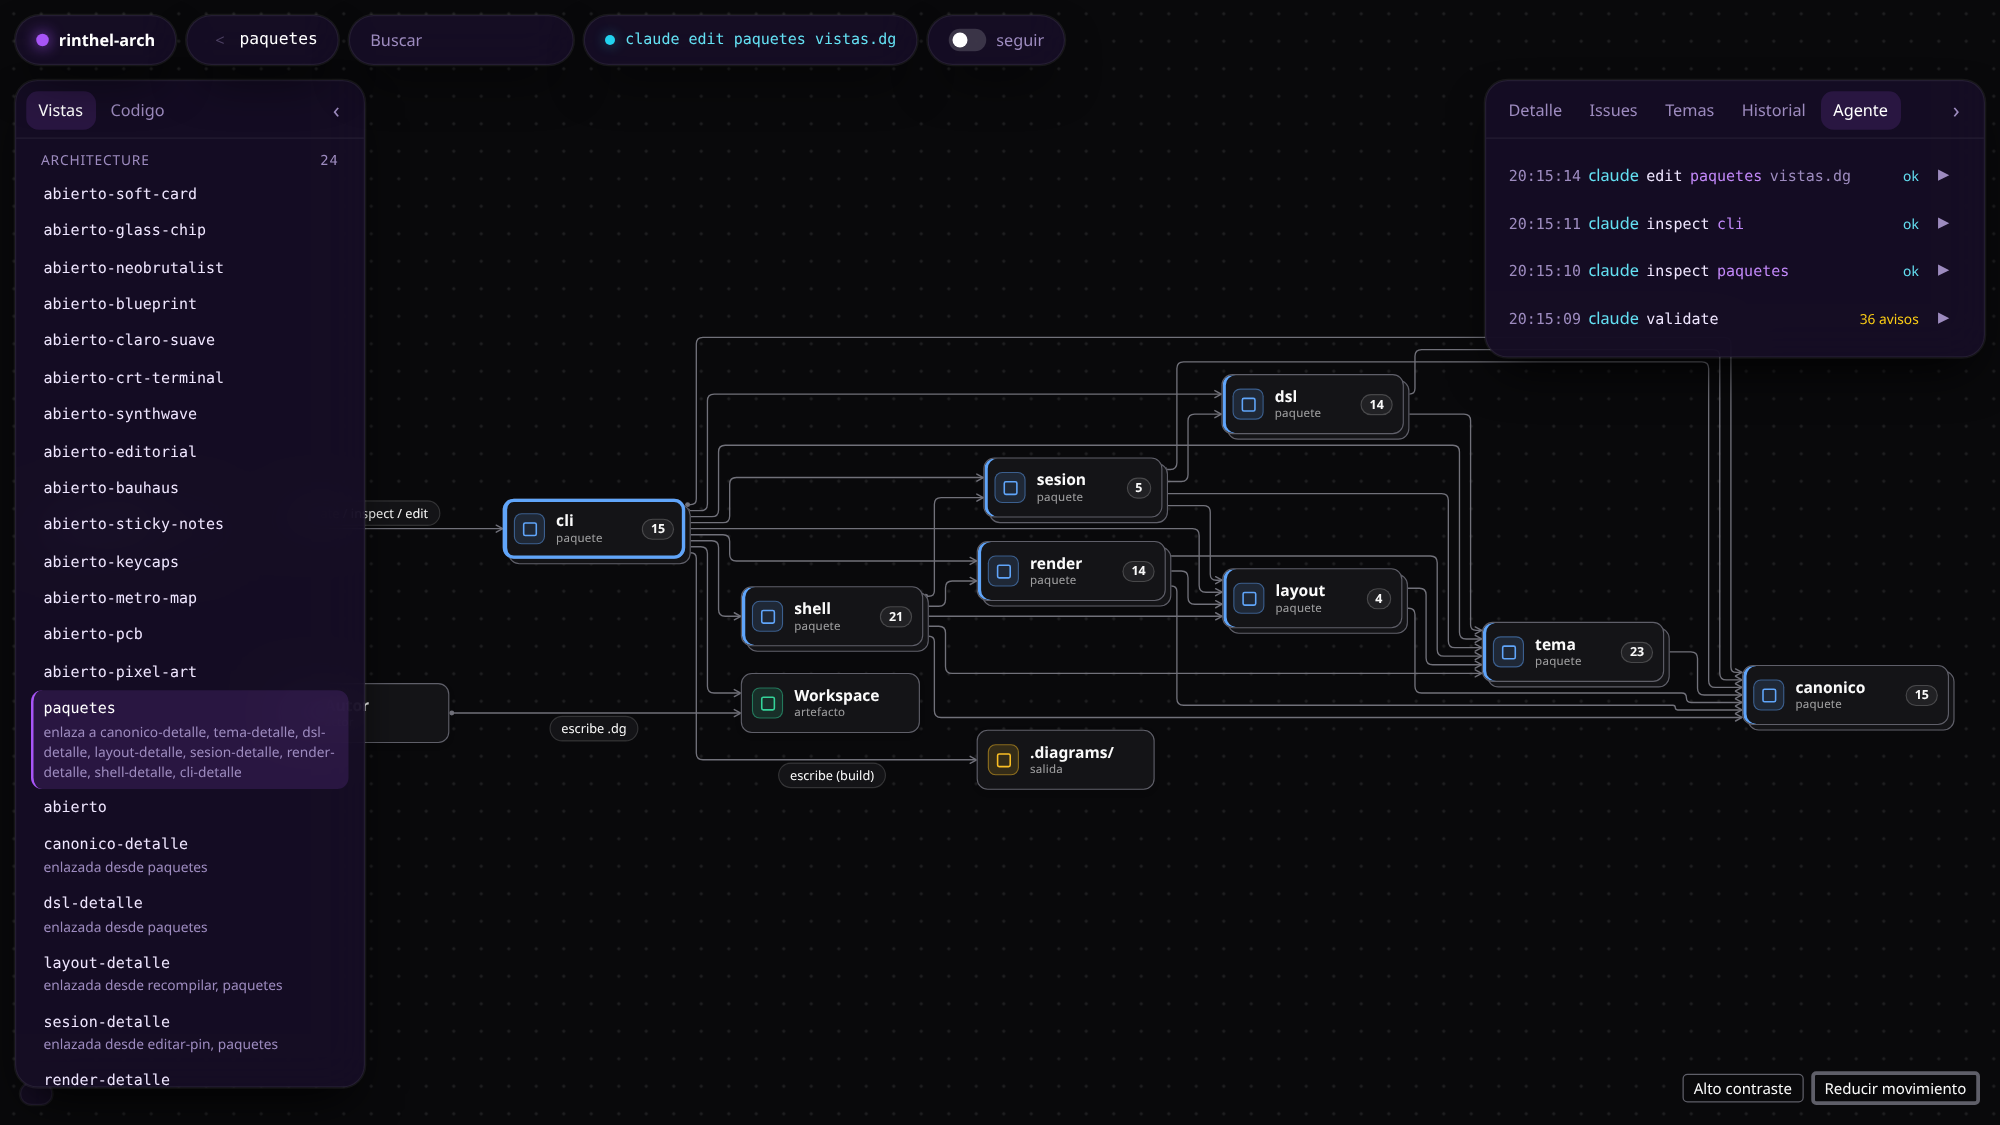
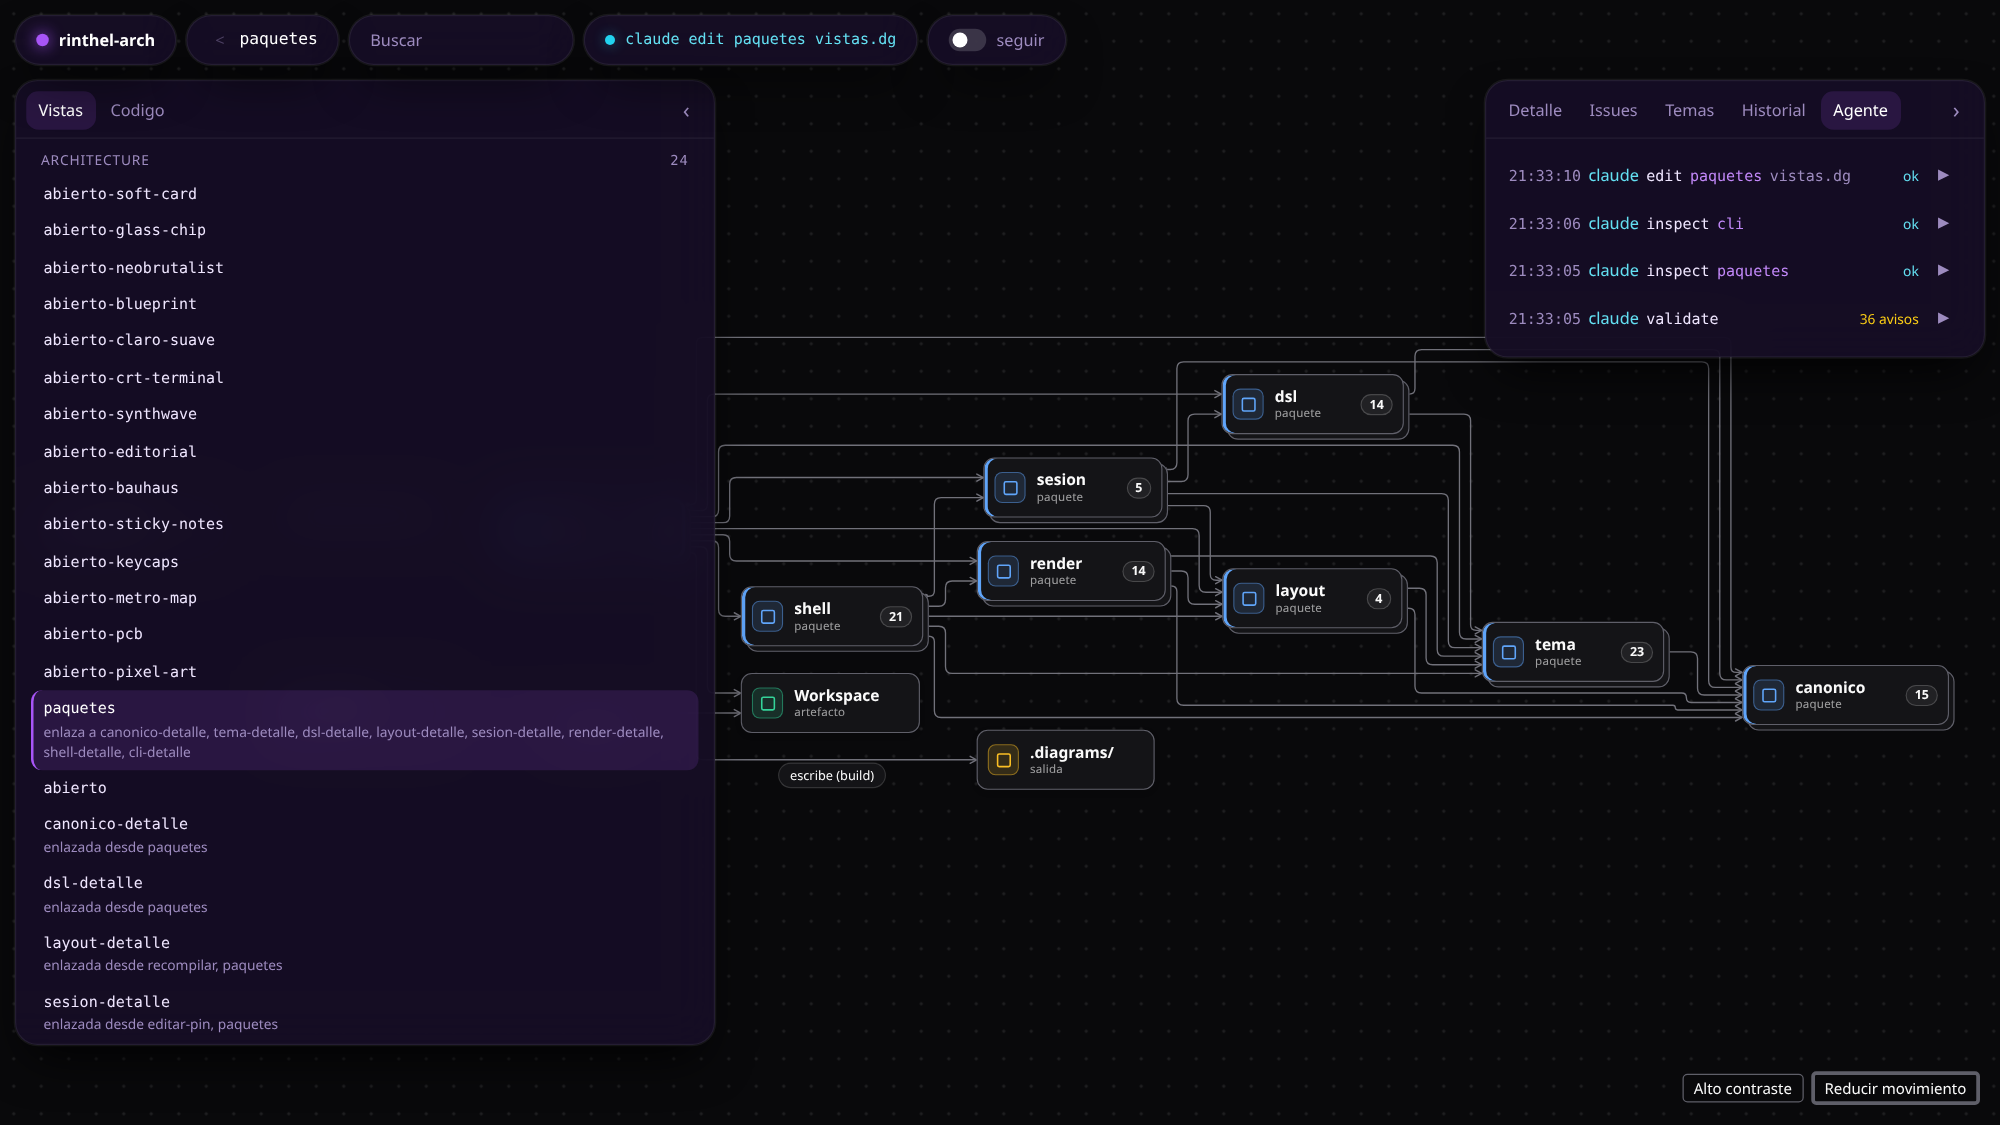
revision #184: estetica del estudio y --hash documentado (D1-D5)
- estilo.css: el bloque de las Migas no cerraba y dejaba anidadas (sin efecto)
  las reglas de Codigo, la Diferencia y solo-lector; ahora van en @layer chrome.
  Las de CodeMirror van sin capa para ganarle a su tema base (D1: select y
  lista con los tokens; numeros de linea sin fondo blanco).
- D2: abrir Codigo ensancha la isla izquierda a ANCHO_DEL_EDITOR (pestana con
  anchoMinimo; Isla.ensanchar) y el editor no crece mas que la isla.
- D3: la pildora de la leyenda no se dibuja vacia.
- D4: las islas dejan libre la franja de abajo (margenInferior 64): Alto
  contraste y Reducir movimiento quedan a la vista.
- D5: docs/guia/cli.md explica de donde sale el --hash de edit.
- Capturas regeneradas con pnpm docs:capturas.

Refs #184

Changed region(s): [[0.0, 0.0933, 0.372, 0.9644]]

diff --git a/packages/estudio/navegador/estilo.css b/packages/estudio/navegador/estilo.css
@@ -105,7 +105,8 @@
   .ui-isla {
     position: absolute;
     top: 64px;
-    max-height: calc(100% - 64px - 30px);
+    /* Deja libre la franja de abajo: leyenda, Pasos y Alto contraste / Reducir movimiento no quedan bajo las islas. */
+    max-height: calc(100% - 64px - 64px);
     border-radius: 18px;
     display: flex;
     flex-direction: column;
@@ -705,6 +706,10 @@
     border-radius: 14px;
     padding: 8px 12px;
     z-index: 1;
+    /* La Leyenda del shell en modo auto puede no dibujar nada: sin ella no queda una pildora vacia. */
+    &:empty {
+      display: none;
+    }
   }
 
   .ui-toasts {
@@ -771,13 +776,24 @@
     font-family: var(--ui-mono);
     color: var(--ui-texto-fuerte);
   }
+}
 
+/* Paneles de las islas que llegaron despues (Codigo, Diferencia): en la misma capa que el resto del chrome. */
+@layer chrome {
   /* Pestana Codigo: editor CodeMirror 6 del DSL (#190). */
   .ui-codigo {
     display: flex;
     flex-direction: column;
     gap: 8px;
     min-height: 0;
+    min-width: 0;
+  }
+  /* El editor no crece mas que la isla: las lineas largas se desplazan dentro de CodeMirror. */
+  .ui-editor {
+    min-width: 0;
+    & .cm-editor {
+      width: 100%;
+    }
   }
   .ui-codigo-cabecera {
     display: flex;
@@ -794,6 +810,14 @@
       font-family: var(--ui-mono);
     }
   }
+  /* La lista desplegable nativa de un select tambien con los tokens del chrome (oscuro); si no, sale blanca. */
+  .ui-isla select {
+    color-scheme: dark;
+    & option {
+      background: var(--ui-superficie-solida);
+      color: var(--ui-texto);
+    }
+  }
   .ui-guardado {
     font-size: 11px;
     color: var(--ui-tenue);
@@ -801,50 +825,7 @@
       color: var(--ui-err);
     }
   }
-  .ui-editor .cm-editor {
-    font-family: var(--ui-mono);
-    font-size: 12px;
-    background: transparent;
-    color: var(--ui-texto);
-    border-radius: var(--ui-radio-s);
-    max-height: calc(100vh - 220px);
-    &.cm-focused {
-      outline: 1px solid var(--ui-sutil-2);
-    }
-    & .cm-scroller {
-      font-family: var(--ui-mono);
-    }
-    & .cm-gutters {
-      background: transparent;
-      color: var(--ui-tenue);
-      border: 0;
-    }
-    & .cm-activeLine,
-    & .cm-activeLineGutter {
-      background: var(--ui-hover);
-    }
-    & .cm-cursor {
-      border-left-color: var(--ui-texto-fuerte);
-    }
-    & .cm-selectionBackground,
-    &.cm-focused .cm-selectionBackground {
-      background: var(--ui-sel);
-    }
-    & .cm-tooltip {
-      background: var(--ui-superficie-solida);
-      border: 1px solid var(--ui-borde);
-      color: var(--ui-texto);
-    }
-    & .cm-panels {
-      background: var(--ui-superficie-alta);
-      color: var(--ui-texto);
-    }
-  }
-  /* Escrituras externas (#191): lineas que trajo el disco y aviso de solape. */
-  .ui-editor .cm-line.ui-linea-del-disco {
-    background: var(--ui-agente-suave);
-    box-shadow: inset 2px 0 0 var(--ui-agente);
-  }
+  /* Aviso de solape con una escritura externa (#191). */
   .ui-aviso-del-disco {
     display: flex;
     flex-wrap: wrap;
@@ -899,4 +880,52 @@
     clip-path: inset(50%);
     white-space: nowrap;
   }
+}
+
+/*
+ * CodeMirror inyecta su tema base sin capa: estas reglas tambien van sin capa (como las piezas del shell) para ganarle
+ * (fondo de los numeros de linea, cursor, seleccion) y para las lineas que trajo el disco (#191).
+ */
+.ui-chrome .ui-editor .cm-editor {
+  font-family: var(--ui-mono);
+  font-size: 12px;
+  background: transparent;
+  color: var(--ui-texto);
+  border-radius: var(--ui-radio-s);
+  max-height: calc(100vh - 220px);
+  &.cm-focused {
+    outline: 1px solid var(--ui-sutil-2);
+  }
+  & .cm-scroller {
+    font-family: var(--ui-mono);
+  }
+  & .cm-gutters {
+    background: transparent;
+    color: var(--ui-tenue);
+    border: 0;
+  }
+  & .cm-activeLine,
+  & .cm-activeLineGutter {
+    background: var(--ui-hover);
+  }
+  & .cm-cursor {
+    border-left-color: var(--ui-texto-fuerte);
+  }
+  & .cm-selectionBackground,
+  &.cm-focused .cm-selectionBackground {
+    background: var(--ui-sel);
+  }
+  & .cm-tooltip {
+    background: var(--ui-superficie-solida);
+    border: 1px solid var(--ui-borde);
+    color: var(--ui-texto);
+  }
+  & .cm-panels {
+    background: var(--ui-superficie-alta);
+    color: var(--ui-texto);
+  }
+}
+.ui-chrome .ui-editor .cm-line.ui-linea-del-disco {
+  background: var(--ui-agente-suave);
+  box-shadow: inset 2px 0 0 var(--ui-agente);
 }

diff --git a/packages/estudio/test/limites-de-isla.test.ts b/packages/estudio/test/limites-de-isla.test.ts
@@ -6,7 +6,7 @@ const lienzo = { ancho: 1400, alto: 900 };
 
 describe('limites del redimensionado de las islas', () => {
   it('el ancho y el alto quedan entre los minimos y lo que deja el lienzo', () => {
-    expect(rangoDeIsla(lienzo)).toEqual({ ancho: { min: 220, max: 640 }, alto: { min: 140, max: 870 } });
+    expect(rangoDeIsla(lienzo)).toEqual({ ancho: { min: 220, max: 640 }, alto: { min: 140, max: 836 } });
     // En un lienzo estrecho el maximo baja, pero nunca por debajo del minimo.
     expect(rangoDeIsla({ ancho: 500, alto: 100 })).toEqual({ ancho: { min: 220, max: 250 }, alto: { min: 140, max: 140 } });
     expect(LIMITES_DE_ISLA.anchoMin).toBe(220);
@@ -39,7 +39,7 @@ describe('limites del redimensionado de las islas', () => {
     expect(tamanoPorTeclado('ArrowRight', actual, { lado: 'derecha', eje: 'horizontal' }, lienzo)).toEqual({ ancho: 284, alto: 300 });
     expect(tamanoPorTeclado('ArrowDown', actual, { lado: 'derecha', eje: 'vertical' }, lienzo)).toEqual({ ancho: 300, alto: 316 });
     expect(tamanoPorTeclado('Home', actual, { lado: 'izquierda', eje: 'horizontal' }, lienzo)).toEqual({ ancho: 220, alto: 300 });
-    expect(tamanoPorTeclado('End', actual, { lado: 'izquierda', eje: 'vertical' }, lienzo)).toEqual({ ancho: 300, alto: 870 });
+    expect(tamanoPorTeclado('End', actual, { lado: 'izquierda', eje: 'vertical' }, lienzo)).toEqual({ ancho: 300, alto: 836 });
     expect(tamanoPorTeclado('a', actual, { lado: 'izquierda', eje: 'vertical' }, lienzo)).toBeUndefined();
   });
 });

diff --git a/packages/estudio/navegador/marco/isla.tsx b/packages/estudio/navegador/marco/isla.tsx
@@ -1,6 +1,6 @@
 /** Isla lateral de vidrio: pestanas del registro, boton de ocultar, asas de redimensionado y pestana de borde al ocultarse. */
 import { Tabs } from '@base-ui/react/tabs';
-import { Suspense, useState } from 'react';
+import { Suspense, useEffect, useRef, useState } from 'react';
 import type { ReactElement } from 'react';
 
 import { BotonConAtajo } from '../comandos/atajo';
@@ -25,6 +25,13 @@ export function IslaLateral({ lado, id, nombre, isla, pestanas, activa, alCambia
   // Una pestana que `conservar` se monta la primera vez que se abre y desde ahi sigue montada aunque no este activa.
   const [visitadas, setVisitadas] = useState<ReadonlySet<string>>(() => new Set([activa]));
   if (!visitadas.has(activa)) setVisitadas(new Set([...visitadas, activa]));
+  const anchoMinimo = pestanas.find((p) => p.id === activa)?.anchoMinimo;
+  // Solo al cambiar de pestana (la referencia a la isla cambia en cada render): despues se puede estrechar a mano.
+  const ensanchar = useRef(isla.ensanchar);
+  ensanchar.current = isla.ensanchar;
+  useEffect(() => {
+    if (anchoMinimo !== undefined) ensanchar.current(anchoMinimo);
+  }, [activa, anchoMinimo]);
   if (isla.oculta) {
     return (
       <BotonConAtajo comando={`isla-${lado}`} className="ui-pestana-borde" data-lado={lado} aria-label={`Mostrar ${nombre}`} aria-controls={id} aria-expanded={false} onClick={isla.mostrar}>

diff --git a/packages/estudio/test/estudio.test.tsx b/packages/estudio/test/estudio.test.tsx
@@ -2,6 +2,7 @@
 import { act, cleanup, fireEvent, screen, waitFor, within } from '@testing-library/react';
 import { afterEach, describe, expect, it } from 'vitest';
 
+import { ANCHO_DEL_EDITOR } from '../navegador/marco/pestanas';
 import { lienzoListo, montarEstudio, pulsarNodo } from './ayudas-de-ui';
 
 afterEach(cleanup);
@@ -81,6 +82,18 @@ describe('marco de la UI', () => {
     expect(alto.getAttribute('aria-valuenow')).toBe(alto.getAttribute('aria-valuemax'));
     fireEvent.doubleClick(alto);
     expect(alto.getAttribute('aria-valuetext')).toBe('alto del contenido');
+  });
+
+  it('abrir Codigo ensancha la isla izquierda para que el editor no corte el texto (sin pasar del maximo)', async () => {
+    await montarEstudio({ 'main.dg': DSL });
+    const ancho = await screen.findByRole('separator', { name: 'Ancho del panel izquierdo' });
+    const antes = Number(ancho.getAttribute('aria-valuenow'));
+
+    fireEvent.click(await screen.findByRole('tab', { name: 'Codigo' }));
+
+    const maximo = Number(ancho.getAttribute('aria-valuemax'));
+    await waitFor(() => expect(Number(ancho.getAttribute('aria-valuenow'))).toBe(Math.min(Math.max(antes, ANCHO_DEL_EDITOR), maximo)));
+    expect(Number(ancho.getAttribute('aria-valuenow'))).toBeGreaterThan(antes);
   });
 });
 

diff --git a/packages/estudio/navegador/marco/use-isla.ts b/packages/estudio/navegador/marco/use-isla.ts
@@ -27,6 +27,8 @@ export interface Isla {
   alternar(): void;
   mostrar(): void;
   ocultar(): void;
+  /** Ensancha la isla hasta `minimo` (recortado al maximo del lienzo); si ya es mas ancha, no cambia. */
+  ensanchar(minimo: number): void;
   /** Para medir el alto del contenido al empezar un gesto. */
   ref: (elemento: HTMLElement | null) => void;
   /** Props del asa de un eje: separador accesible para `horizontal` y `vertical`; la esquina es solo de puntero. */
@@ -101,6 +103,7 @@ export function useIsla({ lado, id, nombre, lienzo, anchoInicial }: OpcionesDeIs
     alternar: () => setOculta((o) => !o),
     mostrar: () => setOculta(false),
     ocultar: () => setOculta(true),
+    ensanchar: (minimo) => setTamano((t) => (t.ancho >= minimo ? t : { ...t, ancho: Math.max(t.ancho, Math.min(minimo, rango.ancho.max)) })),
     ref: (el) => {
       elemento.current = el;
     },

diff --git a/packages/estudio/navegador/marco/pestanas.tsx b/packages/estudio/navegador/marco/pestanas.tsx
@@ -23,11 +23,16 @@ export interface PestanaDelPanel {
   Contenido: ComponentType;
   /** Sigue montada (oculta) con otra pestana activa: el editor conserva su estado y su historial fino (historia 26). */
   conservar?: boolean;
+  /** Al activarla, la isla se ensancha hasta este ancho (si es mas angosta y el lienzo lo permite). */
+  anchoMinimo?: number;
 }
+
+/** Ancho con el que el editor muestra lineas de DSL tipicas sin cortarlas. */
+export const ANCHO_DEL_EDITOR = 560;
 
 export const PESTANAS_IZQUIERDAS: readonly PestanaDelPanel[] = [
   { id: 'vistas', nombre: 'Vistas', Contenido: PanelDeVistas },
-  { id: 'codigo', nombre: 'Codigo', Contenido: PanelDeCodigo, conservar: true },
+  { id: 'codigo', nombre: 'Codigo', Contenido: PanelDeCodigo, conservar: true, anchoMinimo: ANCHO_DEL_EDITOR },
 ];
 
 export const PESTANAS_DERECHAS: readonly PestanaDelPanel[] = [

diff --git a/packages/estudio/navegador/marco/limites.ts b/packages/estudio/navegador/marco/limites.ts
@@ -32,8 +32,8 @@ export const LIMITES_DE_ISLA = {
   /** Una isla no pasa de esta fraccion del ancho del lienzo. */
   fraccionMax: 0.5,
   altoMin: 140,
-  /** Hueco que queda bajo la isla mas alta. */
-  margenInferior: 30,
+  /** Hueco que queda bajo la isla mas alta (franja de leyenda, Pasos y accesibilidad; ver `.ui-isla` en `estilo.css`). */
+  margenInferior: 64,
   /** Paso de las flechas en el separador. */
   paso: 16,
 } as const;

diff --git a/docs/guia/cli.md b/docs/guia/cli.md
@@ -84,6 +84,8 @@ dg edit --workspace <ruta> --edits '<json>' [--hash <archivo>=<hash>] [--json]
 
 Todo o nada: si una edicion falla no se escribe nada. Con `--hash`, rechaza la edicion si el archivo cambio desde que se leyo. Solo toca `.dg` del Workspace. `--intent` aplica una Intencion por su contrato JSON (no lleva `hash`: uno heredado en el JSON se ignora; la concurrencia es `--hash <archivo>=<hash>`, que rechaza si ese archivo cambio, y sin `--hash` aplica sobre el texto vigente); hoy ademas de `mover-pin` existe `{"tipo":"ordenar-lifelines","vista":"flujo","orden":["cliente","api","db"]}`: reescribe el `order` completo de una Vista `sequence` con el orden visible dado, aunque coincida con la primera aparicion; las entradas de `order` hoy ocultas (hijas de un Grupo colapsado, excluidas) conservan su posicion relativa. `{"tipo":"fijar-tema","vista":"general","tema":"claro"}` fija el Tema de una Vista: reescribe el nombre de su `theme` conservando el parche, o inserta `theme claro` como primera linea del cuerpo si no tenia; sin `"tema"` quita la linea (si habia parche escribe `theme neutral { parche }`). Un Tema no declarado (ni en el Workspace ni en `--theme-path`) rechaza con `tema-desconocido` (salida 1). Sirve para fijar Pins y para aplicar los `fix` de `validate`; el resto de cambios se editan a mano en el `.dg` y se revalidan.
 
+De donde sale el `--hash`: es el `hashDeContenido` de `canonico` del texto que leiste (53 bits en hexadecimal, no un SHA), y es opcional: sin el, `edit` aplica sobre el texto vigente. Con `dev` corriendo, `GET http://127.0.0.1:<puerto>/api/archivo/<ruta>` da `{ file, texto, hash, version }` y `GET /api/archivos` el `hash` de cada `.dg` (por ejemplo `curl -s http://127.0.0.1:4173/api/archivo/main.dg`); lee el texto y su `hash` de la misma respuesta y pasalo tal cual: `--hash main.dg=<hash>`. Si el archivo cambio entre medias, `edit` rechaza con `hash-desactualizado` (salida 1): vuelve a leer y reintenta.
+
 ### `skill`: skill de agente de un Workspace
 
 ```
